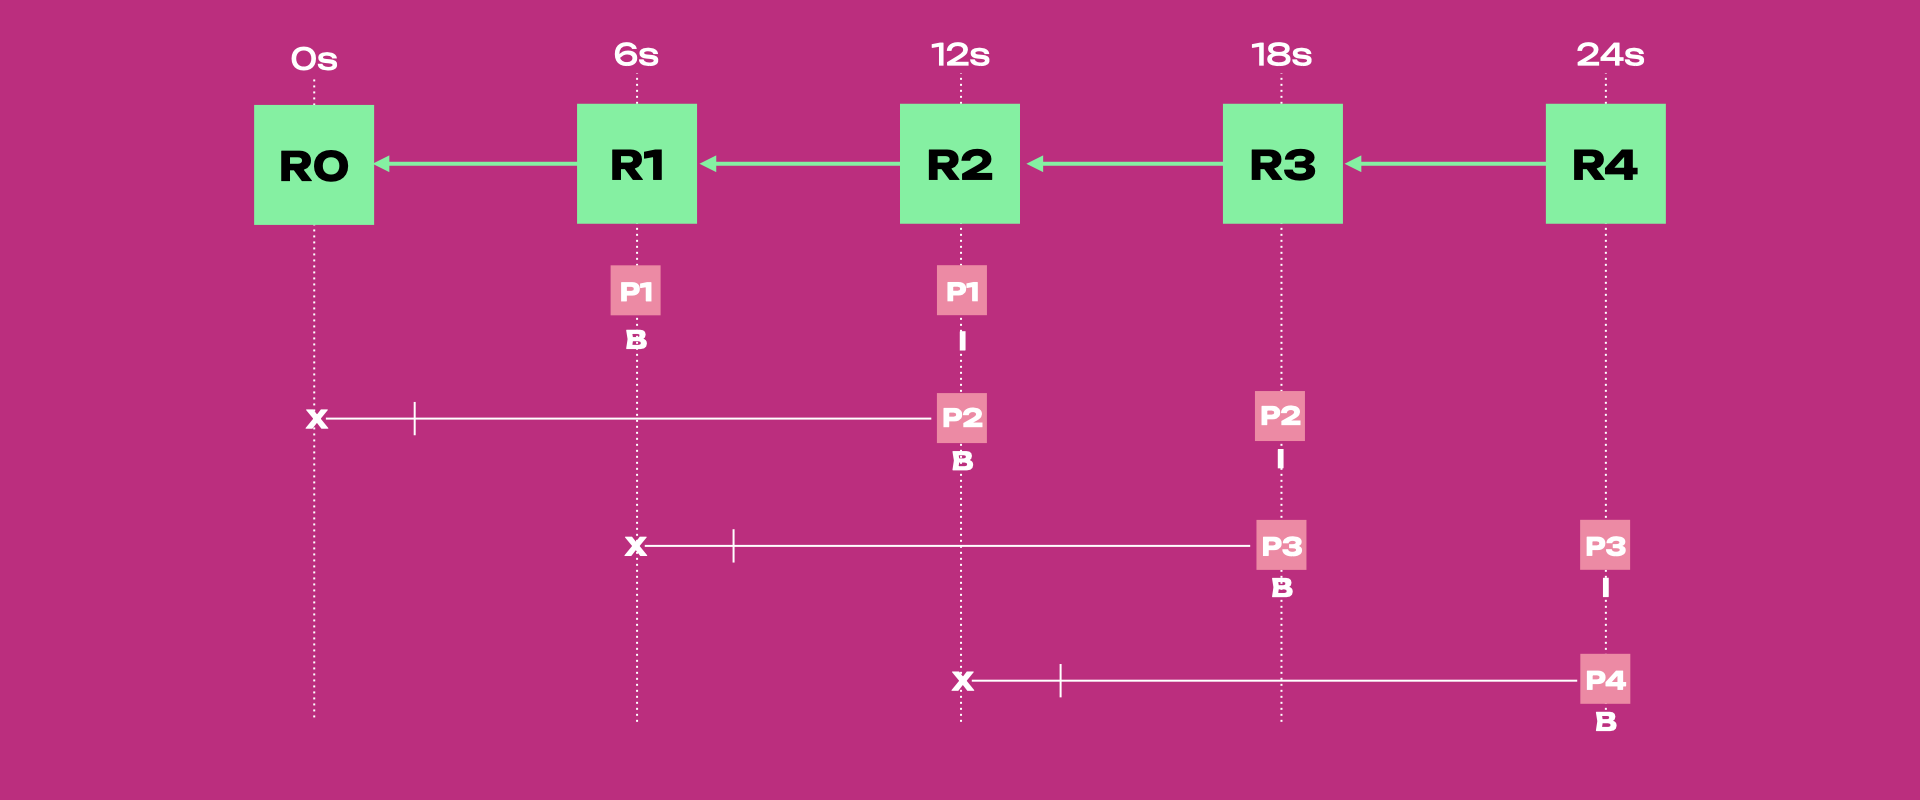
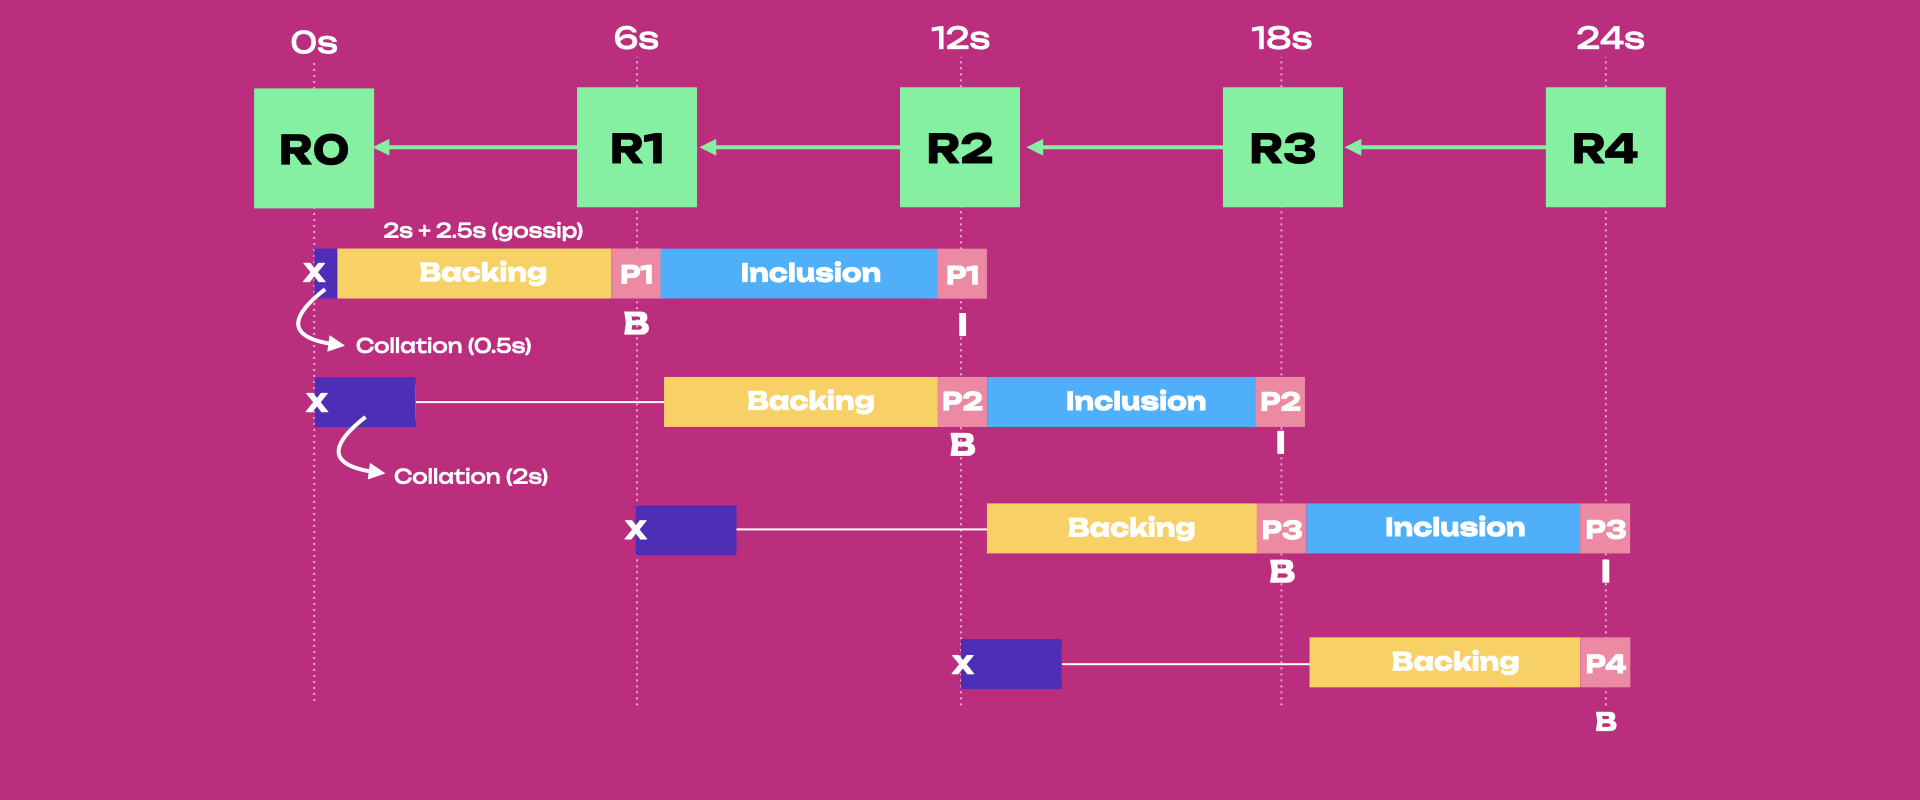
updated figures
adjusted text and descriptions

diff --git a/docs/learn/learn-async-backing.md b/docs/learn/learn-async-backing.md
@@ -63,15 +63,26 @@ general, if relay block `R` is the relay parent of parablock `P`, then `P` could
 
 ![sync-backing](../assets/sync-backing.png)
 
-From left to right, parablock P1 is anchored to the relay parent R0, backed into the relay chain
-block R1, and included in R2. After the inclusion of P1, collators can start generating P2 that must
-to be anchored to the relay parent R2 (showed with an `x`). Note that R2 will be the relay parent of
-P2 if P1 is included on the relay chain and gossiped to the collator producing P2. Because P2 is
-rushing to be backed in 6 seconds into R3, collators have only 0.5 seconds to generate it and
-present it to backing groups on the relay chain (tick mark `|` on the horizontal line after the `x`
-shows the deadline for parablock generation). P2 is included in R4, which will be used as a relay
-parent for P3 (not shown). After 24 seconds P1 and P2 are included into the relay chain. Note how
-collators can start new parablocks every 12 seconds, but only have 0.5 seconds to generate them.
+From left to right, parablock P1 is anchored to the relay parent R0 (showed with an `x`), backed
+into the relay chain block R1, and included in R2. After the inclusion of P1, collators can start
+generating P2 that must be anchored to the relay parent R2. Note that R2 will be the relay parent of
+P2 if R2 is included on the relay chain and gossiped to the collator producing P2.
+
+:::info Every collator also runs an attached relay chain full node
+
+The attached relay node receives relay blocks via gossip. Then the relay node talks to the parachain
+node through the `CollationGeneration` subsystem. R2 is gossiped to the relay full node attached to
+the collator producing P2. Then CollationGeneration passes information about R2 to the collator
+node. Finally, relay parent information from R2 informs the generation of candidate P2.
+
+:::
+
+Because P2 is rushing to be backed in 6 seconds into R3, collators have only 0.5 seconds to generate
+it and present it to backing groups on the relay chain that will take approximately 2 seconds to
+back it and some extra time for gossiping it (the whole process from collation to backing lasts 6
+seconds). P2 is included in R4, which could be used as a relay parent for P3 (not shown). After 24
+seconds P1 and P2 are included into the relay chain. Note how collators can start new parablocks
+every 12 seconds, but only have 0.5 seconds to generate them.
 
 ## Asynchronous Backing
 
@@ -86,23 +97,24 @@ performance metric is not thoroughly tested nor guaranteed until proper benchmar
 
 Below, a table showing the main differences between synchronous and asynchronous backing.
 
-|                                                                |               Sync Backing               |                                                                                            Async Backing                                                                                            |                   Async Backing Advantage                    |
-| :------------------------------------------------------------- | :--------------------------------------: | :-------------------------------------------------------------------------------------------------------------------------------------------------------------------------------------------------: | :----------------------------------------------------------: |
-| **Parablocks included every**                                  |                12 seconds                |                                                                                              6 seconds                                                                                              |            2x more throughput or 2x less latency             |
-| **Parablock's Backing-to-inclusion time**                      |                12 seconds                |                                                                                             12 seconds                                                                                              |                          No change                           |
-| **Parablock's Inclusion-to-finality time**                     |                30 seconds                |                                                                                             30 seconds                                                                                              |                          No change                           |
-| **Parablock's generation time**                                |               0.5 seconds                |                                                                                              2 seconds                                                                                              |                 4x more data in a parablock                  |
-| **Relay parent**                                               |     Is the latest relay chain block      |                                                                           Is not necessarily the latest relay chain block                                                                           | Collators can submit parablocks to backing groups in advance |
-| **Collators can build on the most recent parablock ancestors** | Included in the latest relay chain block | Included in a relay chain block (not necessarily the latest), with augmented information from the latest ancestor in the [unincluded segment](#unincluded-segments) living in the parachain runtime |      Collators can start building parablocks in advance      |
-| **Number of unincluded parablocks**                            |                 Only one                 |                                                                     One, or more than one (depends on configuration parameters)                                                                     |               More efficiency and scalability                |
-| **Unincluded parablocks**                                      |          Cannot be re-proposed           |                                                                Can be re-proposed if not successfully included in the first attempt                                                                 |            Decrease wastage of unused blockspace             |
+|                                            |                           Sync Backing                            |                                                                                  Async Backing                                                                                  |                   Async Backing Advantage                    |
+| :----------------------------------------- | :---------------------------------------------------------------: | :-----------------------------------------------------------------------------------------------------------------------------------------------------------------------------: | :----------------------------------------------------------: |
+| **Parablocks included every**              |                            12 seconds                             |                                                                                    6 seconds                                                                                    |            2x more throughput or 2x less latency             |
+| **Parablock's maximum generation time**    |                            0.5 seconds                            |                                                              Recommended 2 seconds, but higher values are possible                                                              |                 4x more data in a parablock                  |
+| **Relay parent**                           |                  Is the latest relay chain block                  |                                                                 Is not necessarily the latest relay chain block                                                                 | Collators can submit parablocks to backing groups in advance |
+| **Collators can build on**                 | The most recent ancestor included in the latest relay chain block | An ancestor included in a relay chain block (not necessarily the latest), with augmented information from the latest ancestor in the [unincluded segment](#unincluded-segments) |      Collators can start building parablocks in advance      |
+| **Number of unincluded parablocks**        |                             Only one                              |                                                           One, or more than one (depends on configuration parameters)                                                           |               More efficiency and scalability                |
+| **Unincluded parablocks**                  |                       Cannot be re-proposed                       |                                                      Can be re-proposed if not successfully included in the first attempt                                                       |            Decrease wastage of unused blockspace             |
+| **Parablock's Backing-to-inclusion time**  |                            12 seconds                             |                                                                                   12 seconds                                                                                    |                          No change                           |
+| **Parablock's Inclusion-to-finality time** |                            30 seconds                             |                                                                                   30 seconds                                                                                    |                          No change                           |
 
 In synchronous backing collators generate parablocks using context entirely pulled from the relay
-chain. While in asynchronous backing collators use additional context from the unincluded segment.
-Parablocks are included every 6 seconds because backing of parablock `N + 1` and inclusion of
-parablock `N` happen on the same relay chain bock ([pipelining](#pipelining)). However, as for
-synchronous backing, a parablock takes 12 seconds to get backed and included, and from inclusion to
-finality there is an additional 30-second time window.
+chain. While in asynchronous backing collators use additional context from the
+[unincluded segment](#unincluded-segments). Parablocks are included every 6 seconds because backing
+of parablock `N + 1` and inclusion of parablock `N` can happen on the same relay chain bock
+([pipelining](#pipelining)). However, as for synchronous backing, a parablock takes 12 seconds to
+get backed and included, and from inclusion to finality there is an additional 30-second time
+window.
 
 Because the throughput is increased by 2x and parachains have 4x more time to generate blocks,
 asynchronous backing is expected to deliver 8x more blockspace to parachains.
@@ -121,7 +133,8 @@ Two parameters of asynchronous backing can be controlled by
 
 Values of zero for both correspond to synchronous backing: `max_candidate_depth = 0` means there can
 be only one unincluded parablock at all times, and `allowed_ancestry_len = 0` means a parablock can
-be built only on the latest relay parent for that parachain.
+be built only on the latest relay parent for that parachain. Initial values will be set to 3 (4
+unincluded parablocks at all times) and 2 (relay parent can be the third last).
 
 ### Async Backing Diagram
 
@@ -129,31 +142,34 @@ be built only on the latest relay parent for that parachain.
 
 The diagram assumes:
 
-- `max_candidate_depth = 1`, meaning that there can be a maximum of two unincluded parablocks at all
-  times
+- `max_candidate_depth = 2`, meaning that there can be a maximum of three unincluded parablocks at
+  all times
 - `allowed_ancestry_len = 1`, meaning parablocks can be anchored to the last or second-last relay
   parent
 
 From left to right, parablock P1 is backed into the relay chain block R1 and included into R2. While
 P1 undergoes backing, collators can already start to generate P2, which will have R0 as a relay
-parent (showed with an `x`). In this way, P2 can be backed in R2 (the same relay block where P1 is
-included) and included in R3. Moreover, collators can now use up to two seconds to generate
-parablocks (tick mark `|` on the horizontal line after the `x` shows the deadline for parablock
-generation). And so on, P3 can be generated while P2 is checked by backing groups, and P4 can be
-built while P3 undergoing backing. In 24 seconds, P1 to P4 are included into the relay chain.
+parent (showed with an `x`). Note how R0 can also be relay parent for P1 as long as in the
+unincluded segment there is a maximum of three unincluded parablocks. Parablock P2 can be backed in
+R2 (the same relay block where P1 is included) and included in R3. Collators can now use up to two
+seconds to generate parablocks. And so on, P3 can be generated while P2 is checked by backing
+groups, and P4 can be built while P3 undergoing backing. In 24 seconds, P1 to P3 are included into
+the relay chain.
 
-Note how at each inclusion event there are always two unincluded parablocks, i.e. compared to
-synchronous backing there can be multiple unincluded parablocks (i.e. [pipelining](#pipelining)).
-For example, when P1 is included, P2 and P3 are not included yet. Collators were able to generate
+Note how there are always three unincluded parablocks at all times, i.e. compared to synchronous
+backing there can be multiple unincluded parablocks (i.e. [pipelining](#pipelining)). For example,
+when P1 undergoing inclusion, P2 and P3 are undergoing backing. Collators were able to generate
 multiple unincluded parablocks because on their end they have the
-[unincluded segment](#unincluded-segments), a local storage of not included parablocks. On the relay
-chain side [perspective parachains](#prospective-parachains) repeats the work each unincluded
-segment does in tracking candidates (as validators cannot simply trust the record kept on
-parachains). Collating on top of unincluded parents means the only time limit to generate a
-parablock is how long it takes to back it (2 seconds). The 6-second relay chain block delay includes
-this backing execution timeout (2 seconds) and some time for network latency (time it takes to
-gossip messages across the entire network). Thus, even if a collator has >2 seconds to produce a
-block, the validators will still have ~2 seconds to check it.
+[unincluded segment](#unincluded-segments), a local storage of not included parablock ancestors that
+they can use to fetch information to build new parablocks. On the relay chain side
+[perspective parachains](#prospective-parachains) repeats the work each unincluded segment does in
+tracking candidates (as validators cannot trust the record kept on parachains).
+
+Collating on top of unincluded parents means the only time limit to generate a parablock is how long
+it takes to back it (2 seconds). The 6-second relay chain block delay includes a backing execution
+timeout (2 seconds) and some time for network latency (time it takes to gossip messages across the
+entire network). Thus, even if a collator has >2 seconds to produce a block, the validators will
+still have ~2 seconds to check it.
 
 ## Terminology
 
